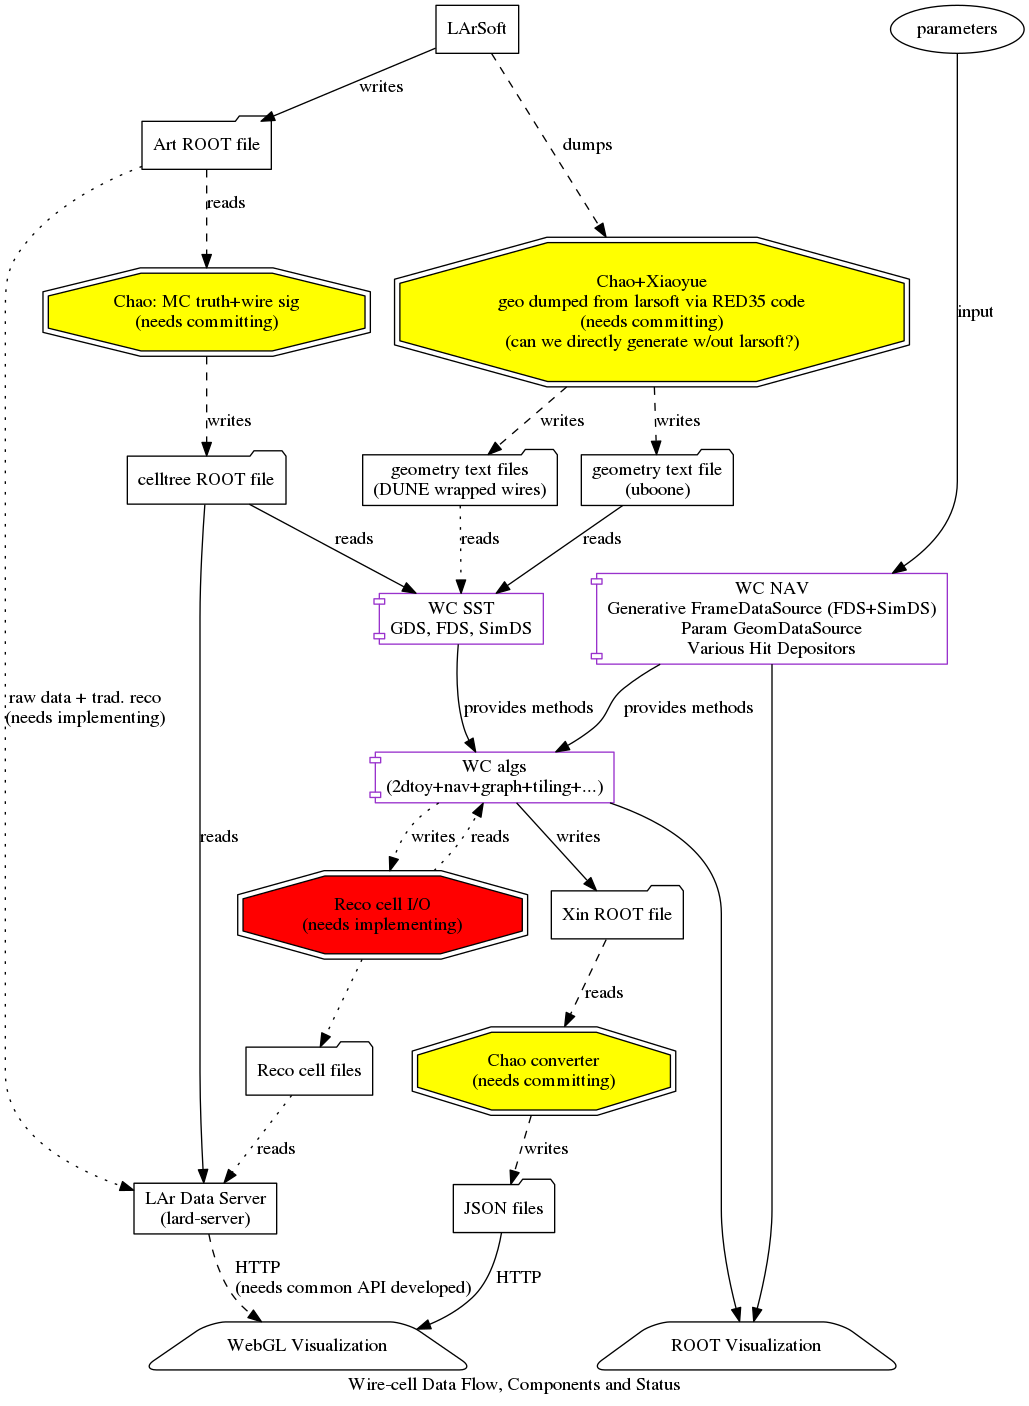
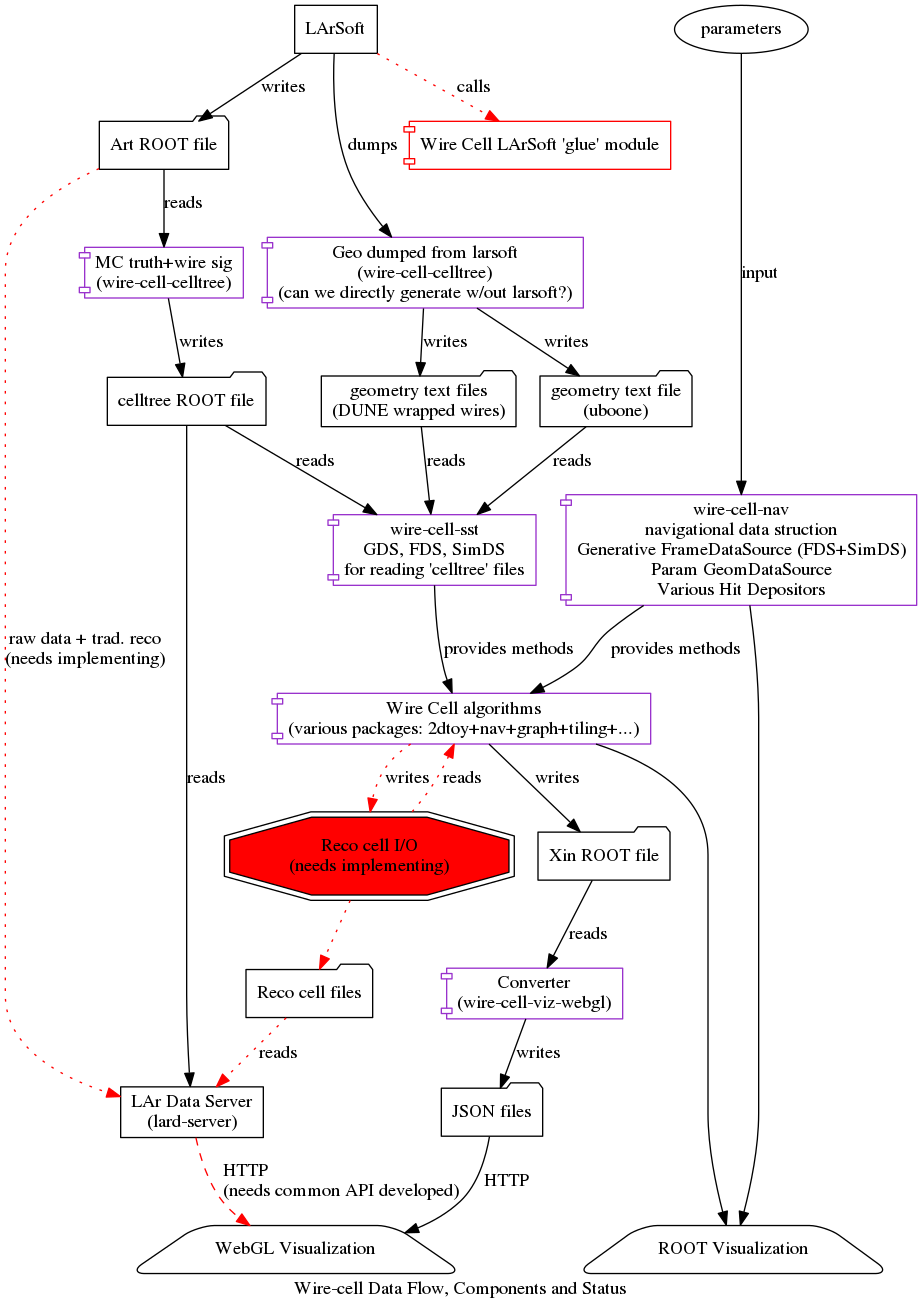
Deployed 15e9680 with MkDocs version: 0.14.0

diff --git a/dev/overview/index.html b/dev/overview/index.html
@@ -190,7 +190,16 @@
               
                 <p>An overview of the system with indications of current status and near
 term plans is given as a diagram below.</p>
-<p><img alt="ecosystem" src="../../img/ecosystem-data.png" /></p>
+<p><img src="../../img/ecosystem-data.png" usemap="#G"/>
+<map id="G" name="G">
+<area shape="rect" id="node5" href="https://github.com/BNLIF/wire-cell-celltree" title="Geo dumped from larsoft\n(wire&#45;cell&#45;celltree)\n(can we directly generate w/out larsoft?)" alt="" coords="267,237,583,308"/>
+<area shape="rect" id="node4" href="https://github.com/BNLIF/wire-cell-celltree" title="MC truth+wire sig\n(wire&#45;cell&#45;celltree)" alt="" coords="85,247,243,298"/>
+<area shape="rect" id="node18" href="https://github.com/brettviren/lard" title="LAr Data Server\n(lard&#45;server)" alt="" coords="121,1087,263,1138"/>
+<area shape="rect" id="node9" href="https://github.com/BNLIF/wire-cell-sst" title="wire&#45;cell&#45;sst\nGDS, FDS, SimDS\nfor reading &#39;celltree&#39; files" alt="" coords="333,515,536,585"/>
+<area shape="rect" id="node11" href="https://github.com/BNLIF/wire-cell-nav" title="wire&#45;cell&#45;nav\nnavigational data struction\nGenerative FrameDataSource (FDS+SimDS)\nParam GeomDataSource\nVarious Hit Depositors" alt="" coords="566,495,917,605"/>
+<area shape="rect" id="node16" href="https://github.com/BNLIF/wire-cell-viz-webgl" title="Converter\n(wire&#45;cell&#45;viz&#45;webgl)" alt="" coords="447,968,623,1019"/>
+<area shape="rect" id="graph0" href="http://bnlif.github.io/wire-cell-docs/" title="Wire&#45;cell Data Flow, Components and Status" alt="" coords="0,0,922,1310"/>
+</map></p>
 <p>(figure as [<a href="../../img/ecosystem-data.pdf">PDF</a>] or [<a href="../../img/ecosystem-data.dot">DOT</a>])</p>
 <p>The legend for this diagram is:</p>
 <ul>

diff --git a/index.html b/index.html
@@ -236,5 +236,5 @@
 
 <!--
 MkDocs version : 0.14.0
-Build Date UTC : 2015-06-22 13:40:32.088084
+Build Date UTC : 2015-06-23 12:42:38.579165
 -->
